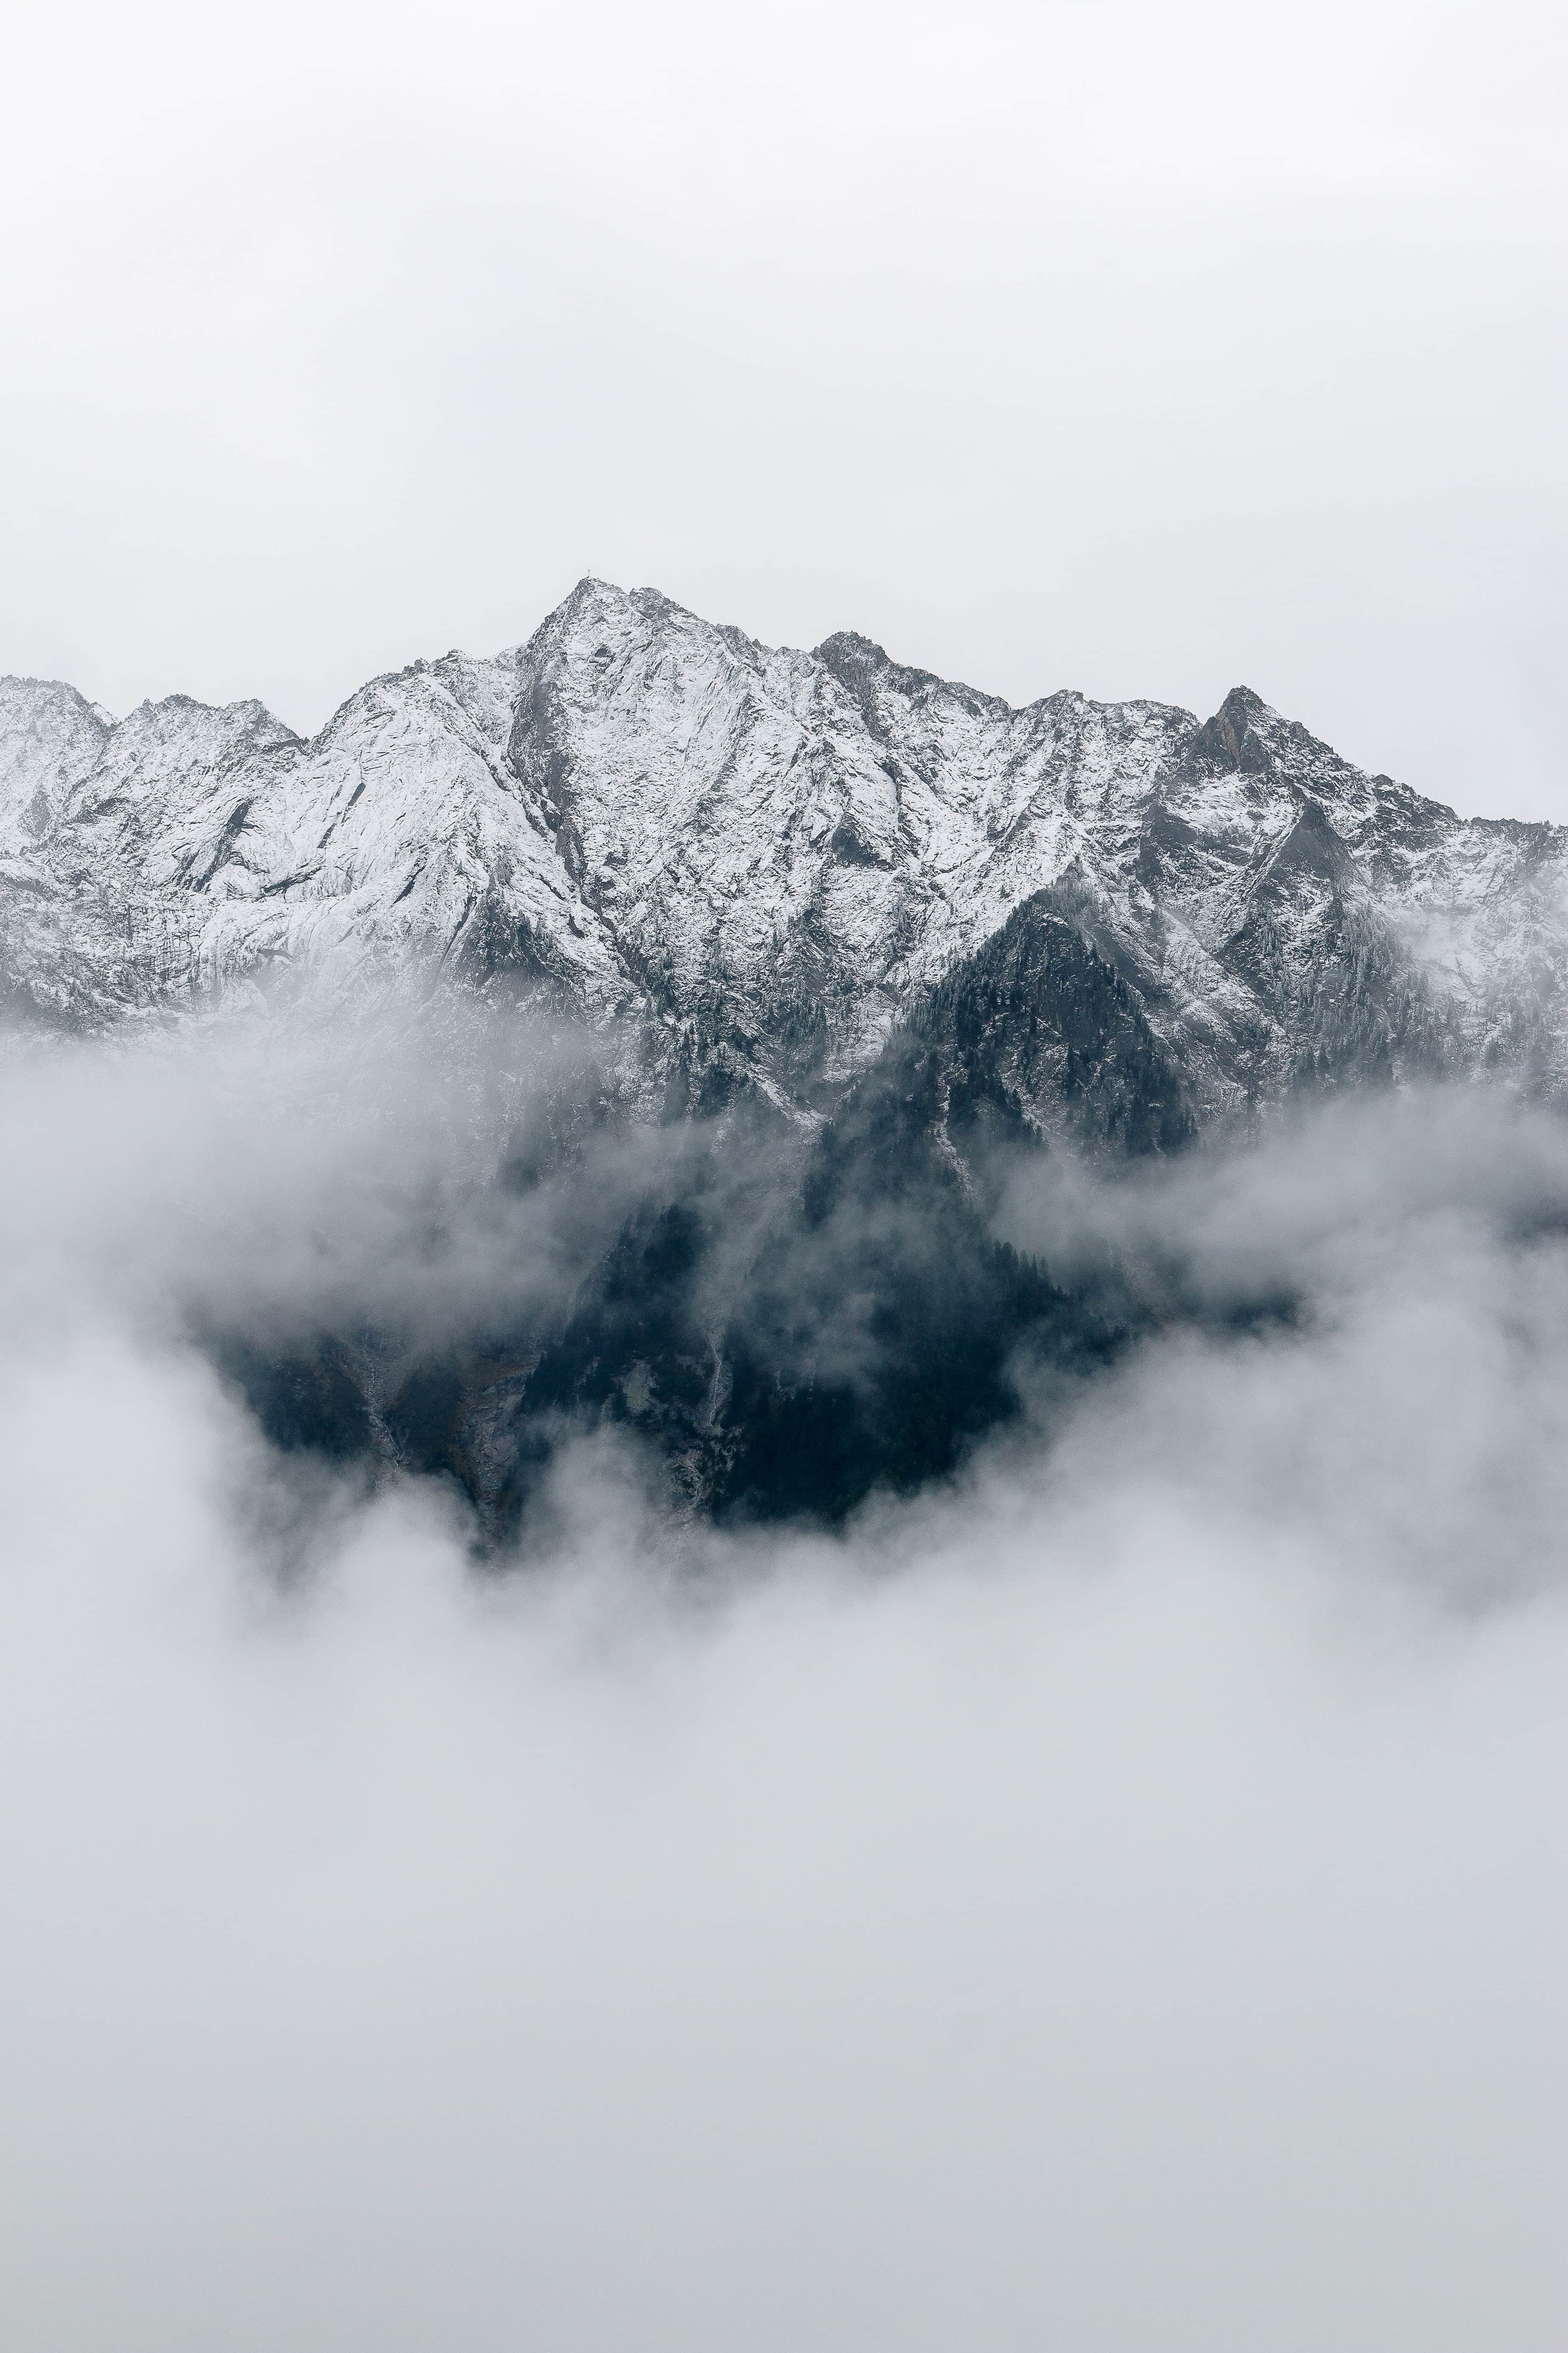
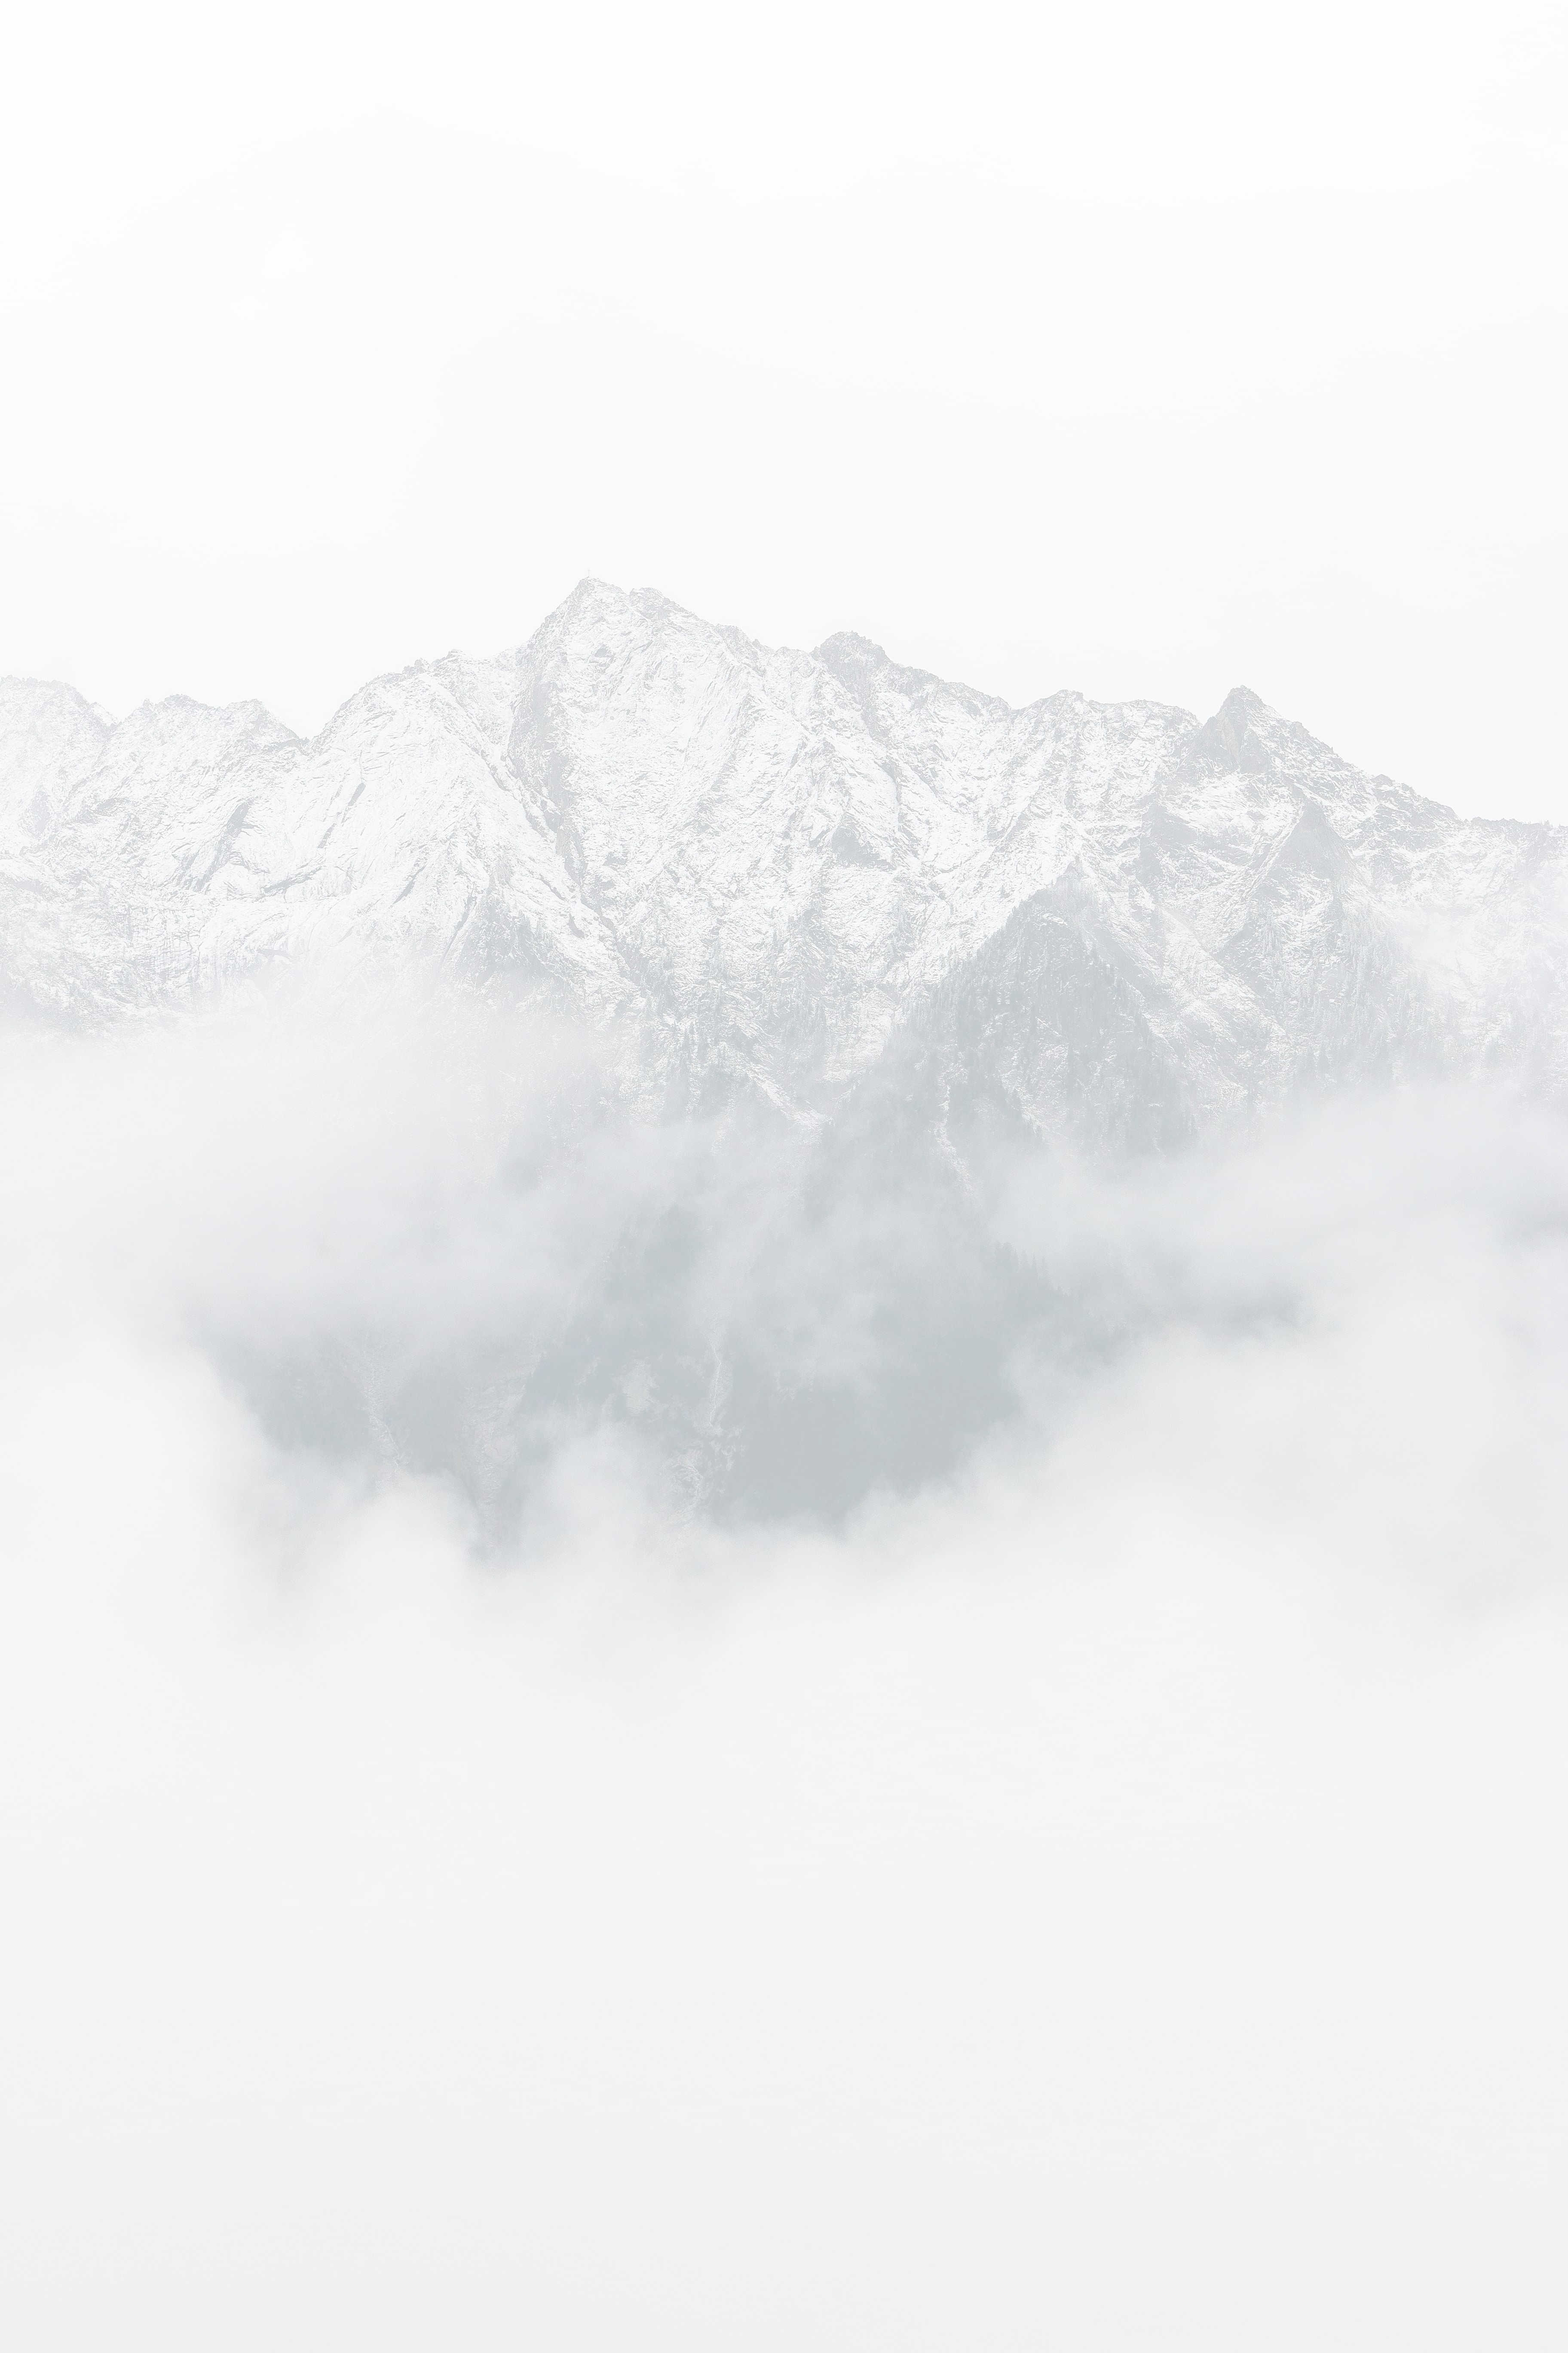
Update sidebar

diff --git a/src/components/Sidebar.js b/src/components/Sidebar.js
@@ -5,7 +5,7 @@ import mountainBg from "../images/mountains-bg.jpg";
 class Sidebar extends Component {
   render() {
     return (
-      <nav className={"sidebar-container border-r overflow-y-auto lg:w-1/5 absolute sm:relative bg-cover bg-no-repeat bg-top bg-white " + (this.props.sidebarIsShown ? "hidden sm:flex" : "flex sm:hidden")} style={{backgroundImage: `url(${mountainBg})`}}>
+      <nav className={"sidebar-container border-r overflow-y-auto lg:w-1/5 absolute sm:relative bg-cover bg-no-repeat bg-top bg-white z-10 " + (this.props.sidebarIsShown ? "hidden sm:flex" : "flex sm:hidden")} style={{backgroundImage: `url(${mountainBg})`}}>
         <ul className="list-reset flex-1 mx-2 z-10">
           {this.props.pages.map((page, index)=><LinkItem page={page} key={index} location={this.props.location}/>)}
         </ul>

diff --git a/src/scss/app.scss b/src/scss/app.scss
@@ -5,16 +5,6 @@
 .sidebar-container{
   height: calc(100vh - 48px);
   max-width: 300px;
-
-  &::before{
-    content: "";
-    position: absolute;
-    top: 0;
-    left: 0;
-    right: 0;
-    bottom: 0;
-    background-color: rgba(255, 255, 255, 0.753);
-  }
 }
 
 .body-container{
